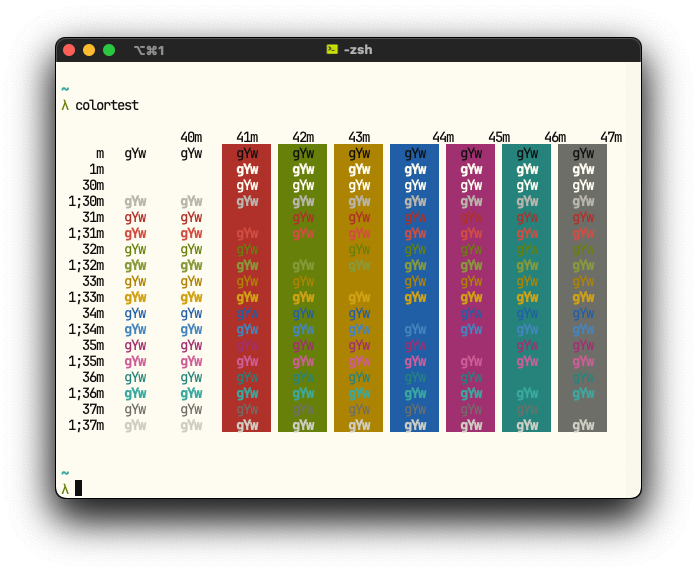
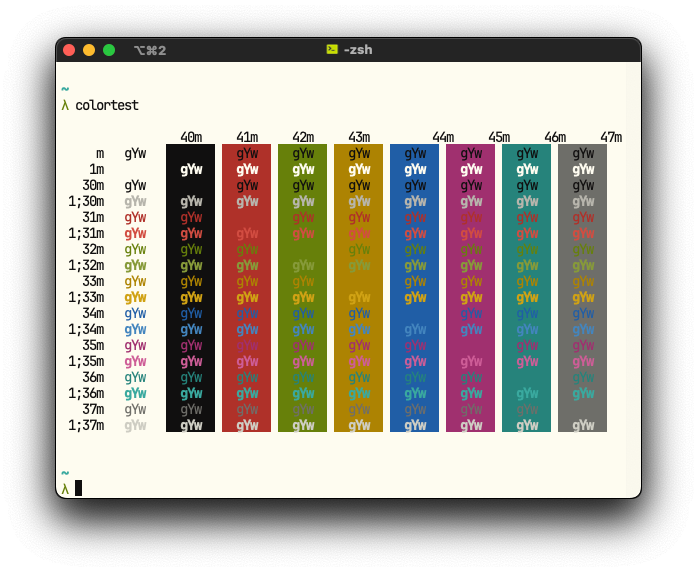
fix: black color for iTerm2

diff --git a/generators/src/iterm2.ts b/generators/src/iterm2.ts
@@ -99,7 +99,7 @@ const flexokiDarkDimmedColorScheme: iTerm2ColorScheme =
   )
 
 const flexokiLightColorScheme: iTerm2ColorScheme = {
-  'Ansi 0 Color': palette.lt_bg,
+  'Ansi 0 Color': palette.lt_tx,
   'Ansi 1 Color': palette.lt_re,
   'Ansi 2 Color': palette.lt_gr,
   'Ansi 3 Color': palette.lt_ye,
@@ -117,12 +117,12 @@ const flexokiLightColorScheme: iTerm2ColorScheme = {
   'Ansi 15 Color': palette.lt_ui_3,
   'Background Color': palette.lt_bg,
   'Foreground Color': palette.lt_tx,
-  'Link Color': palette.paper,
+  'Link Color': palette.lt_tx_2,
   'Bold Color': palette.paper,
   'Cursor Color': palette.lt_tx,
   'Cursor Text Color': palette.lt_bg,
   'Cursor Guide Color': palette.paper,
-  'Selection Color': palette.lt_tx,
+  'Selection Color': palette.lt_tx_2,
   'Selected Text Color': palette.lt_bg
 }
 
@@ -130,7 +130,6 @@ const flexokiLightDimmedColorScheme: iTerm2ColorScheme =
   Object.assign<iTerm2ColorScheme, Partial<iTerm2ColorScheme>>(
     { ...flexokiLightColorScheme },
     {
-      'Ansi 0 Color': palette.lt_bg_2,
       'Background Color': palette.lt_bg_2,
       'Cursor Text Color': palette.lt_bg_2,
       'Selected Text Color': palette.lt_bg_2
